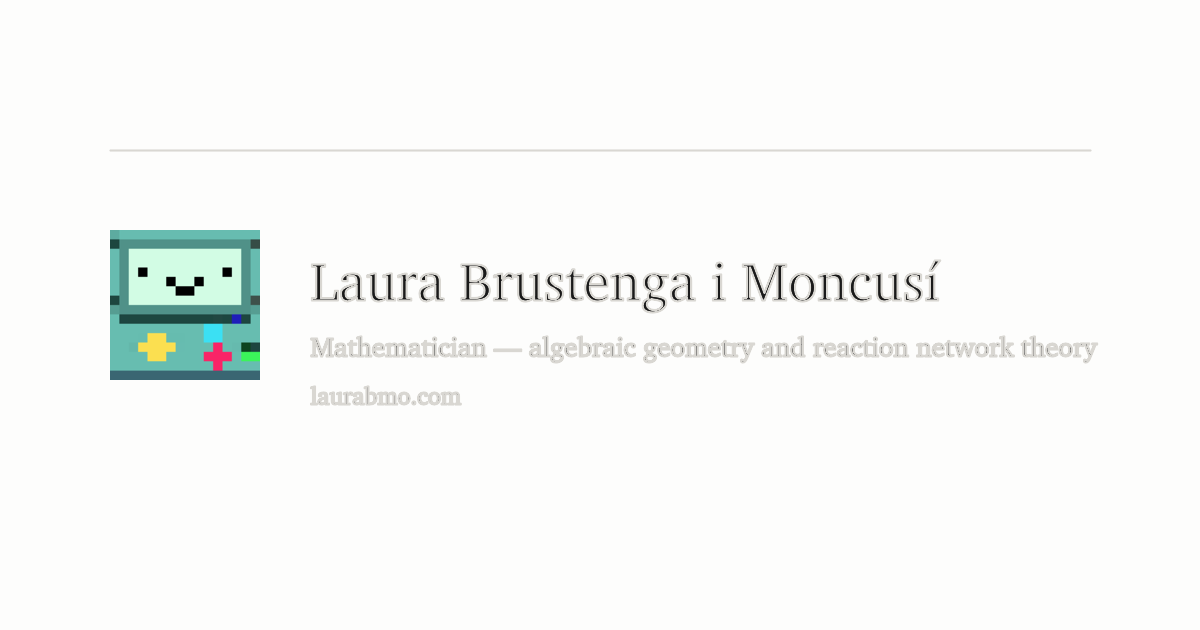
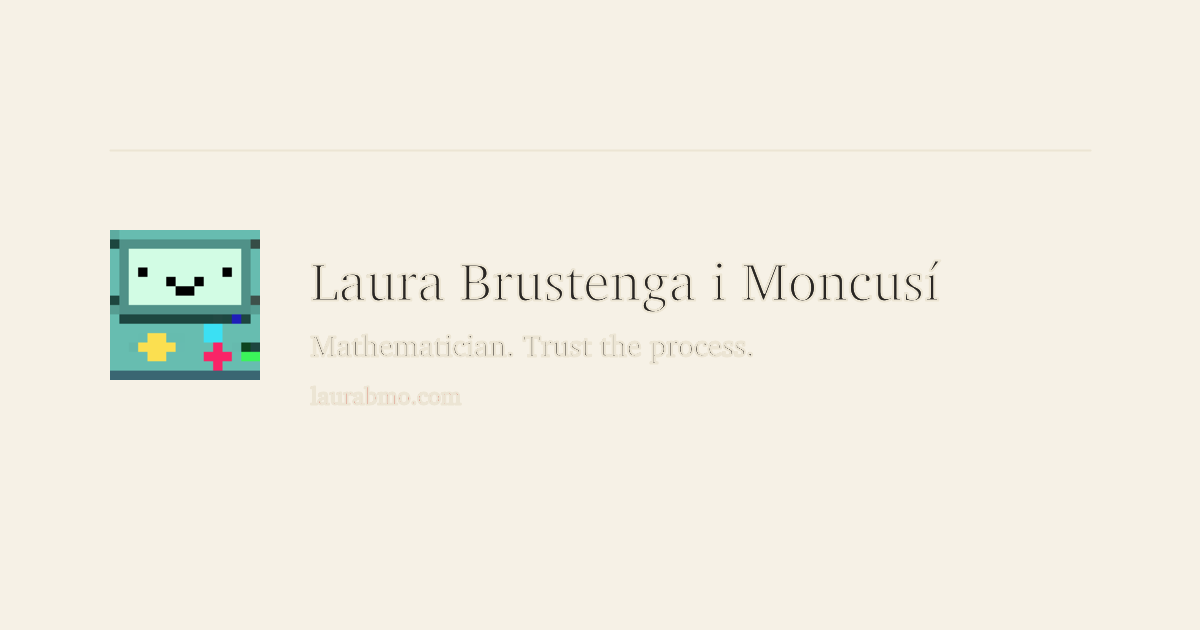
Home in the nav, and a share card in the app's palette
The nav gains Home, ahead of CV, with ascending weights so the order is explicit rather than
depending on how unweighted entries sort.

The share card is now SoftReminder's palette — Paper #F6F1E6, Ink #2A2724, clay accent — and
carries "Mathematician. Trust the process." That line is a new site.Params.shareDescription,
kept separate from description because the latter is also the meta description, where the
keywords earn their place in search results while a chat preview is read by a person.

favicon.svg records what the mark is, in the file: BMO from Adventure Time, for the initials
of Brustenga Moncusí, deliberate and not to be replaced by a monogram.

Changed region(s): [[0.2467, 0.5127, 0.925, 0.573]]

diff --git a/layouts/baseof.html b/layouts/baseof.html
@@ -8,10 +8,11 @@
     <meta name="author" content="{{ site.Params.author }}">
     {{ $title := cond .IsHome site.Title (printf "%s — %s" .Title site.Title) }}
     {{ $desc := or .Description site.Params.description }}
+    {{ $share := or .Description site.Params.shareDescription site.Params.description }}
     <link rel="canonical" href="{{ .Permalink }}">
     <meta property="og:type" content="{{ if .IsPage }}article{{ else }}website{{ end }}">
     <meta property="og:title" content="{{ $title }}">
-    <meta property="og:description" content="{{ $desc }}">
+    <meta property="og:description" content="{{ $share }}">
     <meta property="og:url" content="{{ .Permalink }}">
     <meta property="og:site_name" content="{{ site.Title }}">
     <meta property="og:locale" content="{{ site.Language.Locale }}">
